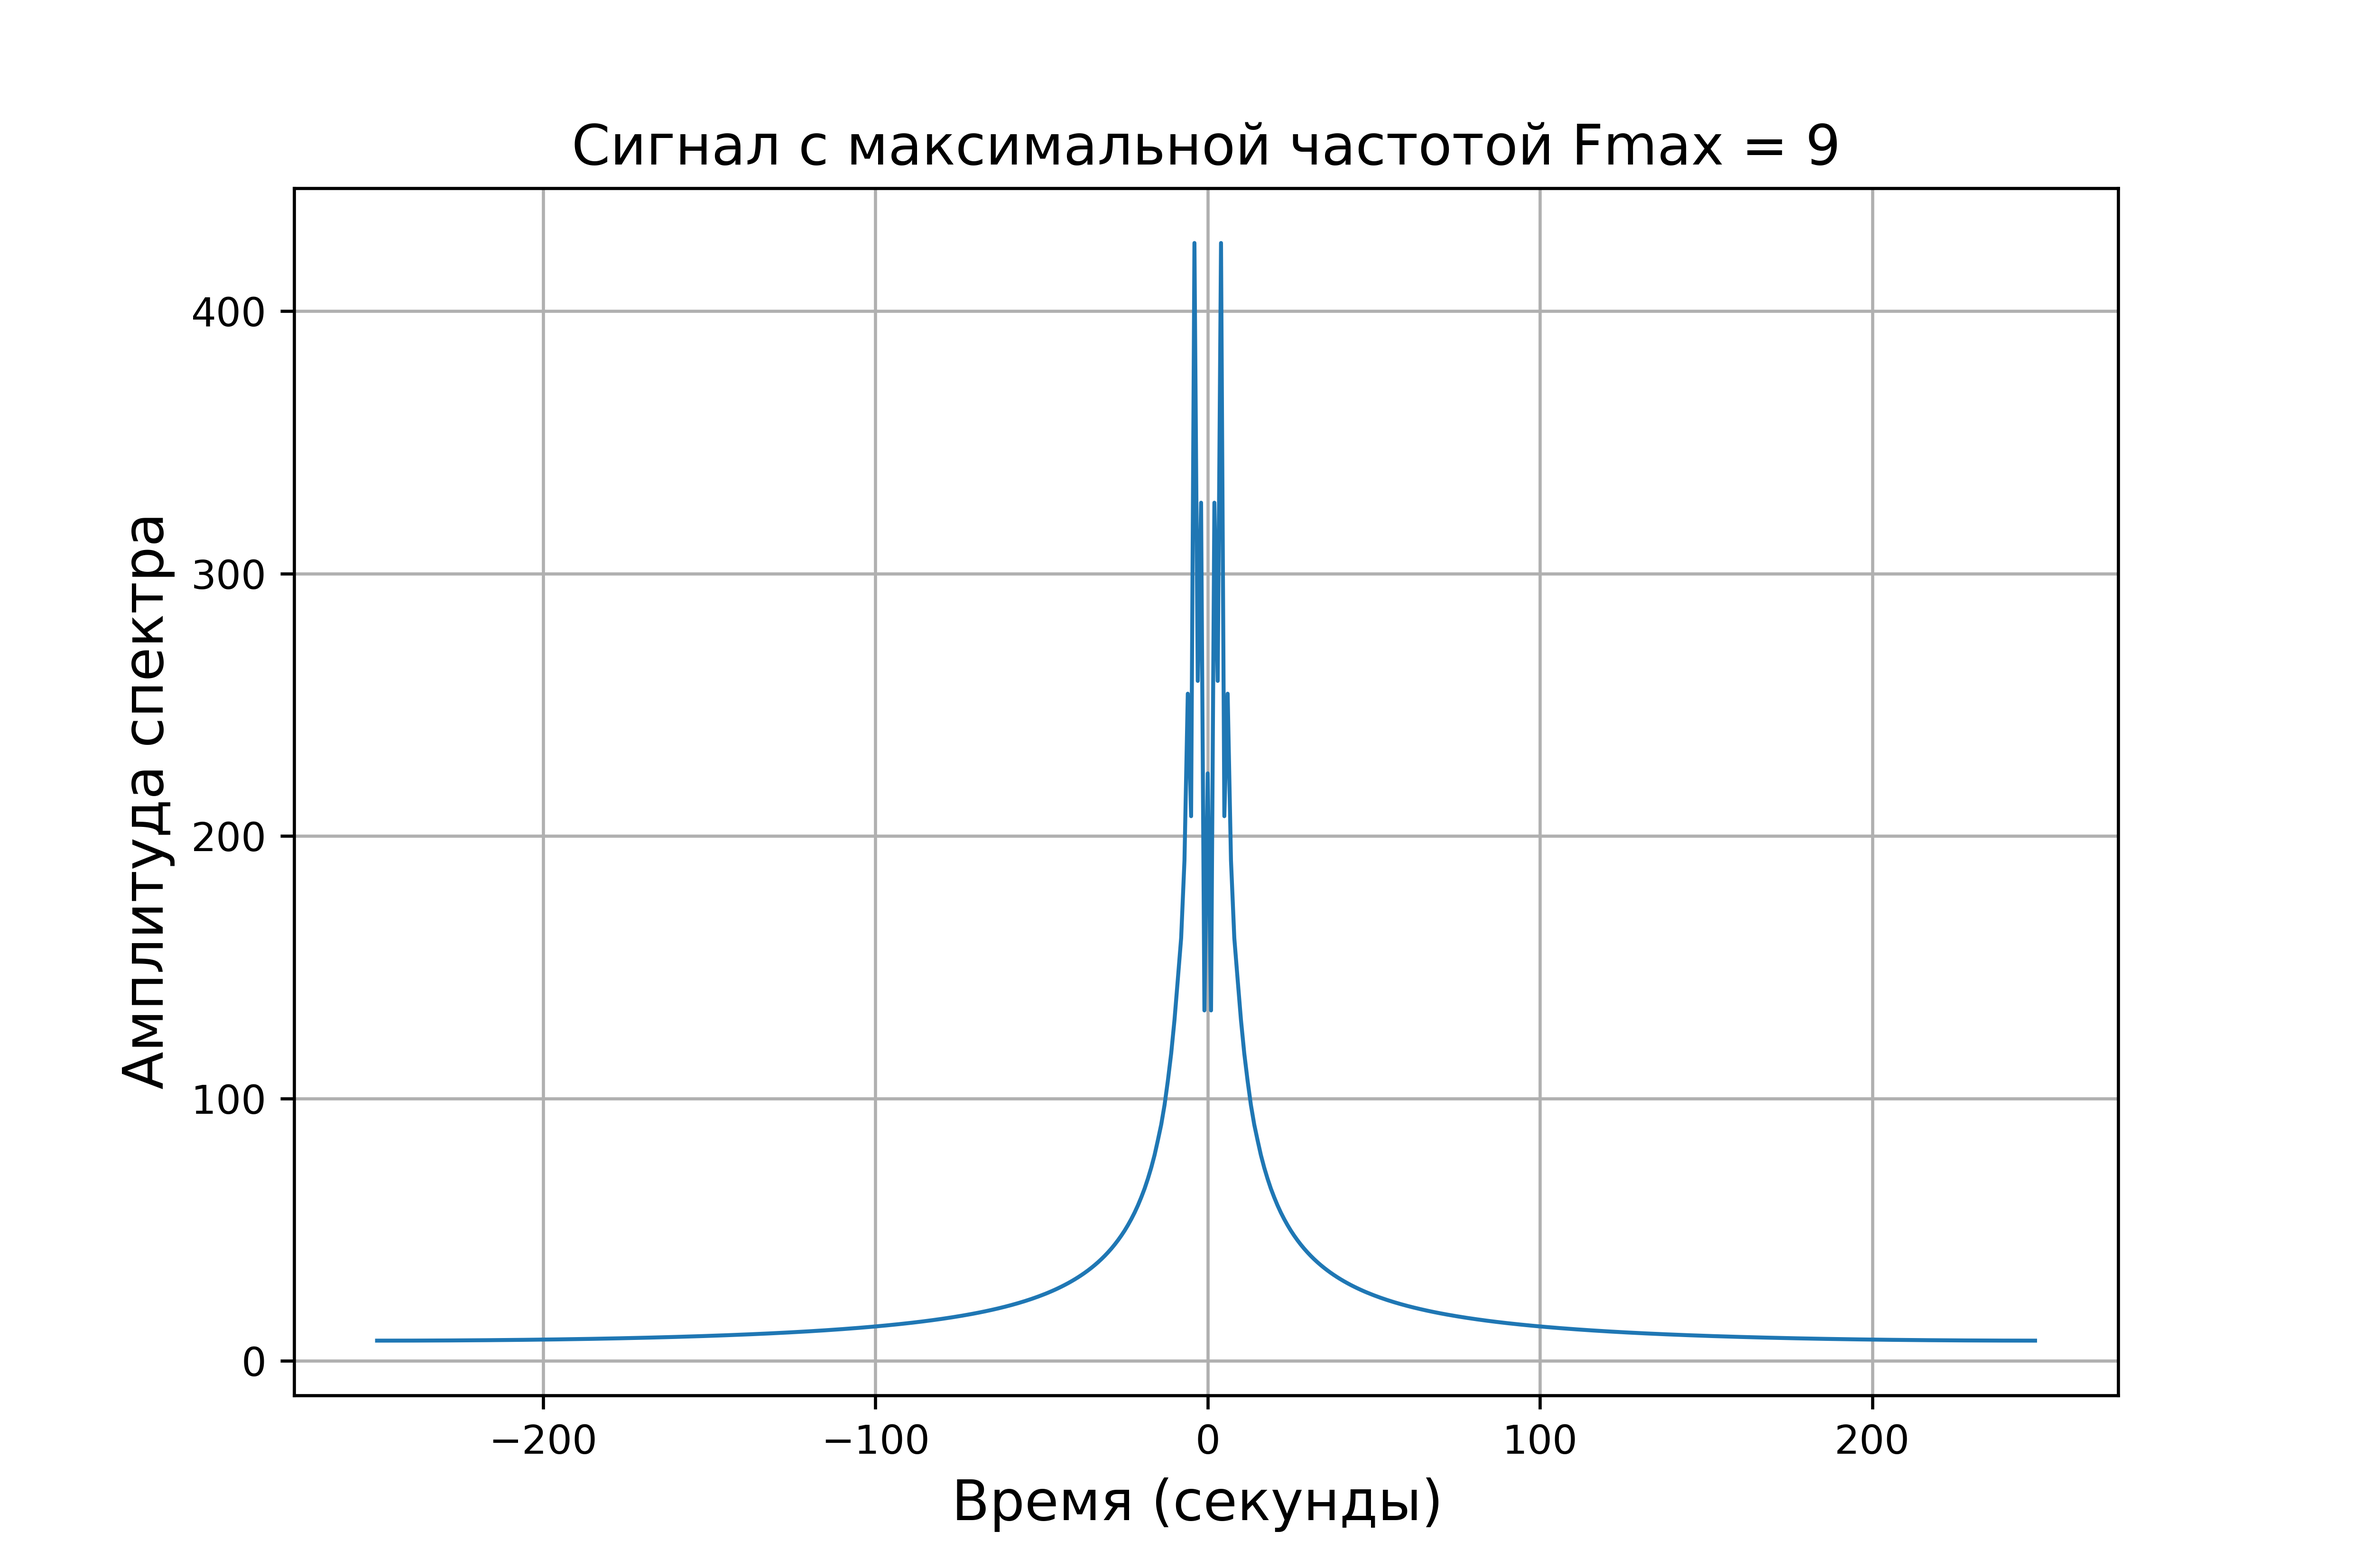
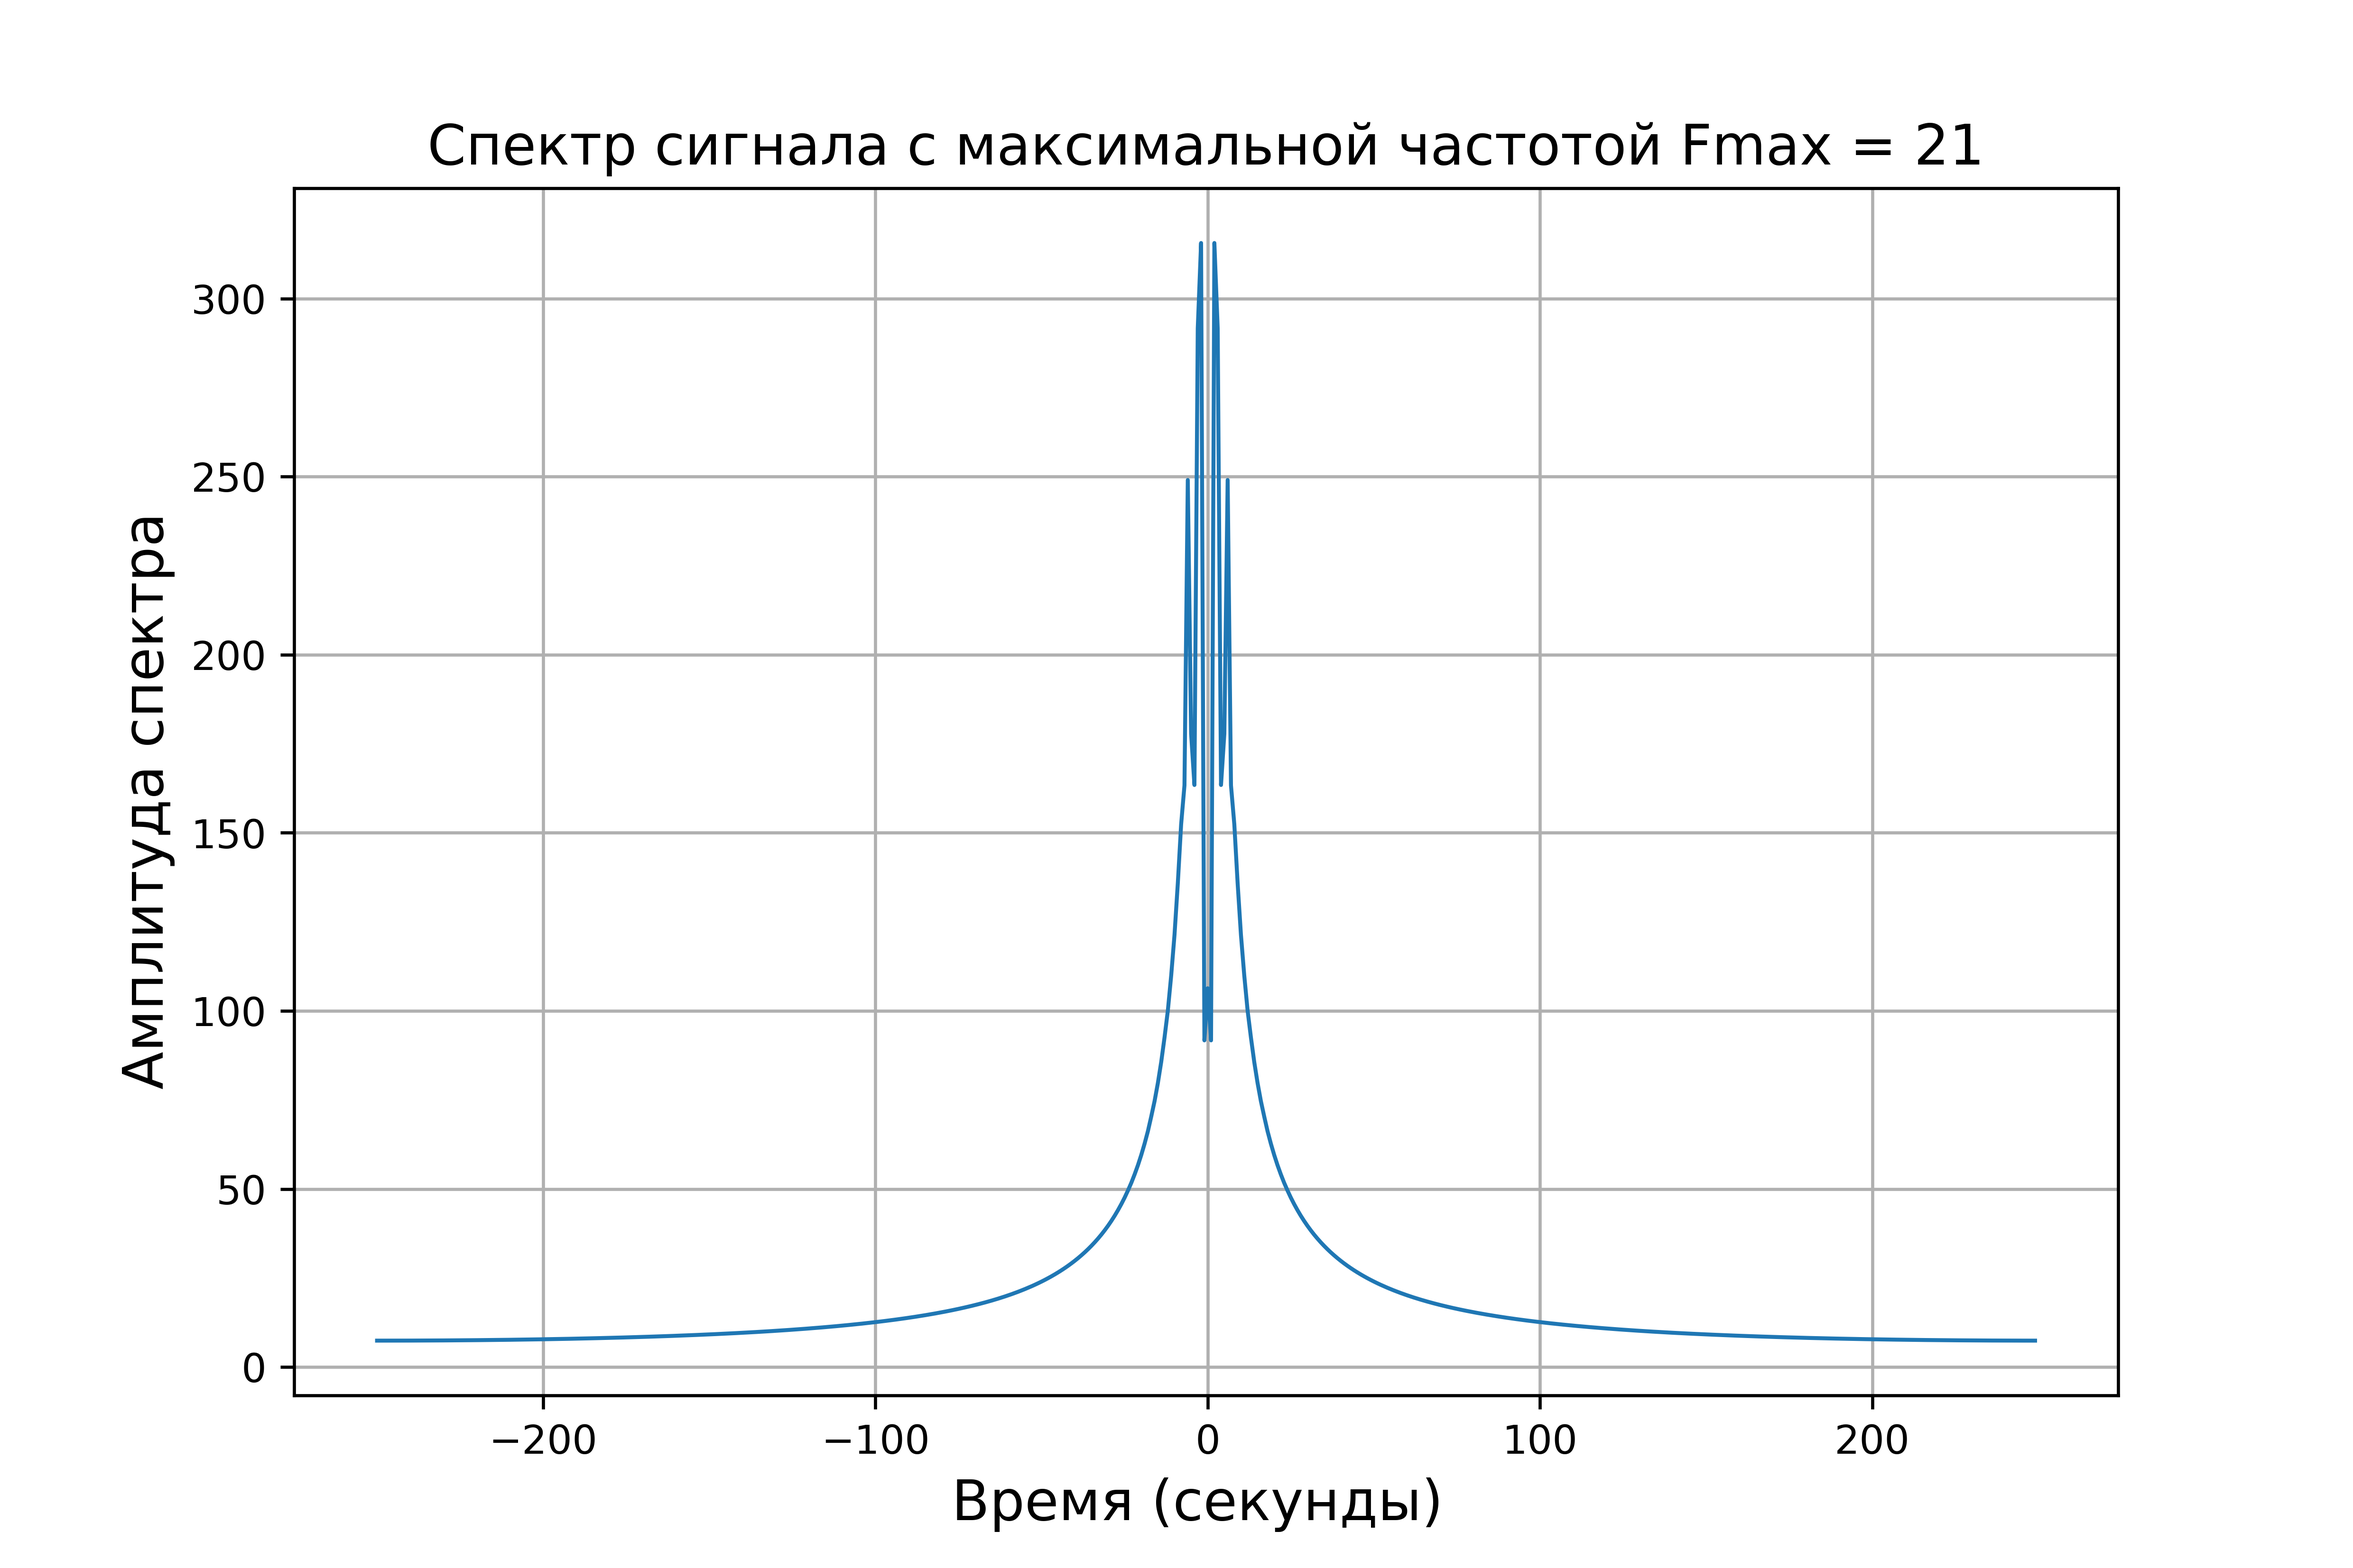
Signal processing 2

diff --git a/SignalProcessing/SignalProcessing.py b/SignalProcessing/SignalProcessing.py
@@ -2,41 +2,35 @@ import numpy
 import scipy
 import matplotlib.pyplot as plt
 
-# Лабораторна робота №2
-# студента групи 519ст
-# Батрака Андрія
-# Варіант 4
+
+# вариант 4 Батрак
 
 n = 500
-Fs = 1000
-Fmax = 9
+fs = 1000
+fm = 9
+F_filter = 16
 
-random = numpy.random.normal(0, 10, n)
+random = numpy.random.normal(0, 10,  n)
 
-time_line_ox = numpy.arange(n)/Fs
+time_line_ox = numpy.arange(n) / fs
 
-w = Fmax/(Fs/2)
+w = fm / (fs / 2)
 
 parameters_filter = scipy.signal.butter(3, w, 'low', output='sos')
 
-
-
 filtered_signal = scipy.signal.sosfiltfilt(parameters_filter, random)
 
-
 # график 1
-
 
 fig, ax = plt.subplots(figsize=(21/2.54, 14/2.54))
 ax.plot(time_line_ox, filtered_signal, linewidth = 1)
 ax.set_xlabel("Время (секунды) ", fontsize = 14)
 ax.set_ylabel("Амплитуда сигнала ", fontsize = 14)
-plt.title("Сигнал с максимальной частотой Fmax = 9", fontsize = 14)
+plt.title("Сигнал с максимальной частотой Fmax = 21", fontsize = 14)
 ax.grid()
-fig.savefig('./figures/' + 'график 1' + '.png')
+fig.savefig('./figures/' + 'график 1' + '.png', dpi = 600)
 dpi = 600
 
-# расчет для второго графика
 spectrum = scipy.fft.fft(filtered_signal)
 spectrum = numpy.abs(scipy.fft.fftshift(spectrum))
 length_signal = n
@@ -50,6 +44,84 @@ ax.plot(freq_countdown, spectrum, linewidth = 1)
 ax.set_xlabel("Время (секунды) ", fontsize = 14)
 ax.set_ylabel("Амплитуда спектра ", fontsize = 14)
 
-plt.title("Сигнал с максимальной частотой Fmax = 9", fontsize = 14)
+plt.title("Спектр сигнала с максимальной частотой Fmax = 21", fontsize = 14)
 ax.grid()
 fig.savefig('./figures/' + 'график 2' + '.png', dpi=600)
+
+# Практична робота 3
+discrete_spectrums = []
+E1 = []
+discrete_signals = []
+discrete_signal_after_filers = []
+w = F_filter / (fs / 2)
+parameters_fil = scipy.signal.butter(3, w, 'low', output='sos')
+filtered_signal_2 = None
+for Dt in [2, 4, 8, 16]:
+    discrete_signal = numpy.zeros(n)
+    for i in range(0, round(n / Dt)):
+        discrete_signal[i * Dt] = filtered_signal[i * Dt]
+        filtered_signal_2 = scipy.signal.sosfiltfilt(parameters_fil, discrete_signal)
+    discrete_signals += [list(discrete_signal)]
+    discrete_spectrum = scipy.fft.fft(discrete_signals)
+    discrete_spectrum = numpy.abs(scipy.fft.fftshift(discrete_spectrum))
+    discrete_spectrums += [list(discrete_spectrum)]
+    discrete_signal_after_filers += [list(filtered_signal_2)]
+
+s = 0
+fig, ax = plt.subplots(2, 2, figsize=(21 / 2.54, 14 / 2.54))
+for i in range(0, 2):
+    for j in range(0, 2):
+        ax[i][j].plot(time_line_ox, discrete_signals[s], linewidth=1)
+        s += 1
+fig.supxlabel("Время (секунды)", fontsize=14)
+fig.supylabel("Амплитуда сигнала", fontsize=14)
+fig.suptitle("Сигнал з шагом дискретизации Dt = (2, 4, 8, 16)", fontsize=14)
+fig.savefig('./figures/' + 'график 3' + '.png', dpi=600)
+
+s = 0
+fig, ax = plt.subplots(2, 2, figsize=(21 / 2.54, 14 / 2.54))
+for i in range(0, 2):
+    for j in range(0, 2):
+        ax[i][j].plot(freq_countdown, discrete_spectrum[s], linewidth=1)
+        s += 1
+fig.supxlabel("Частота (Гц)", fontsize=14)
+fig.supylabel("Амплитуда спектра", fontsize=14)
+fig.suptitle("Сигнал з шагом дискретизации Dt = (2, 4, 8, 16)", fontsize=14)
+fig.savefig('./figures/' + 'график 4' + '.png', dpi=600)
+
+s = 0
+fig, ax = plt.subplots(2, 2, figsize=(21 / 2.54, 14 / 2.54))
+for i in range(0, 2):
+    for j in range(0, 2):
+        ax[i][j].plot(time_line_ox, discrete_signal_after_filers[s], linewidth=1)
+        s += 1
+fig.supxlabel("Время (секунды)", fontsize=14)
+fig.supylabel("Амплитуда сигнала", fontsize=14)
+fig.suptitle("Сигнал з шагом дискретизации Dt = (2, 4, 8, 16)", fontsize=14)
+fig.savefig('./figures/' + 'график 5' + '.png', dpi=600)
+
+E1 = discrete_signal_after_filers - filtered_signal
+disp_start = numpy.var(filtered_signal)
+disp_restored = numpy.var(E1)
+E2 = [1.0, 1.2, 1.3, 1.4]
+relation_signal_noise = numpy.var(filtered_signal) / numpy.var(E1)
+
+x_axis = [2, 4, 8, 16]
+fig, ax = plt.subplots(figsize=(21/2.54, 14/2.54))
+
+ax.plot(x_axis, E2, linewidth = 2)
+ax.set_xlabel("Шаг дискретизации", fontsize = 14)
+ax.set_ylabel("Дисперсия ", fontsize = 14)
+
+plt.title("Зависимость дисперсии от шага дискретизации", fontsize = 14)
+ax.grid()
+fig.savefig('./figures/' + 'график 6' + '.png', dpi=600)
+
+fig, ax = plt.subplots(figsize=(21/2.54, 14/2.54))
+relation_signal_noise2 = [4.0, 3.0, 2.0, 1.0]
+ax.plot(x_axis, relation_signal_noise2, linewidth = 1)
+ax.set_xlabel("Шаг дискретизации ", fontsize = 14)
+ax.set_ylabel("ССШ ", fontsize = 14)
+plt.title("Зависимость дисперсии от шага дискретизации", fontsize = 14)
+ax.grid()
+fig.savefig('./figures/' + 'график 7' + '.png', dpi=600)
